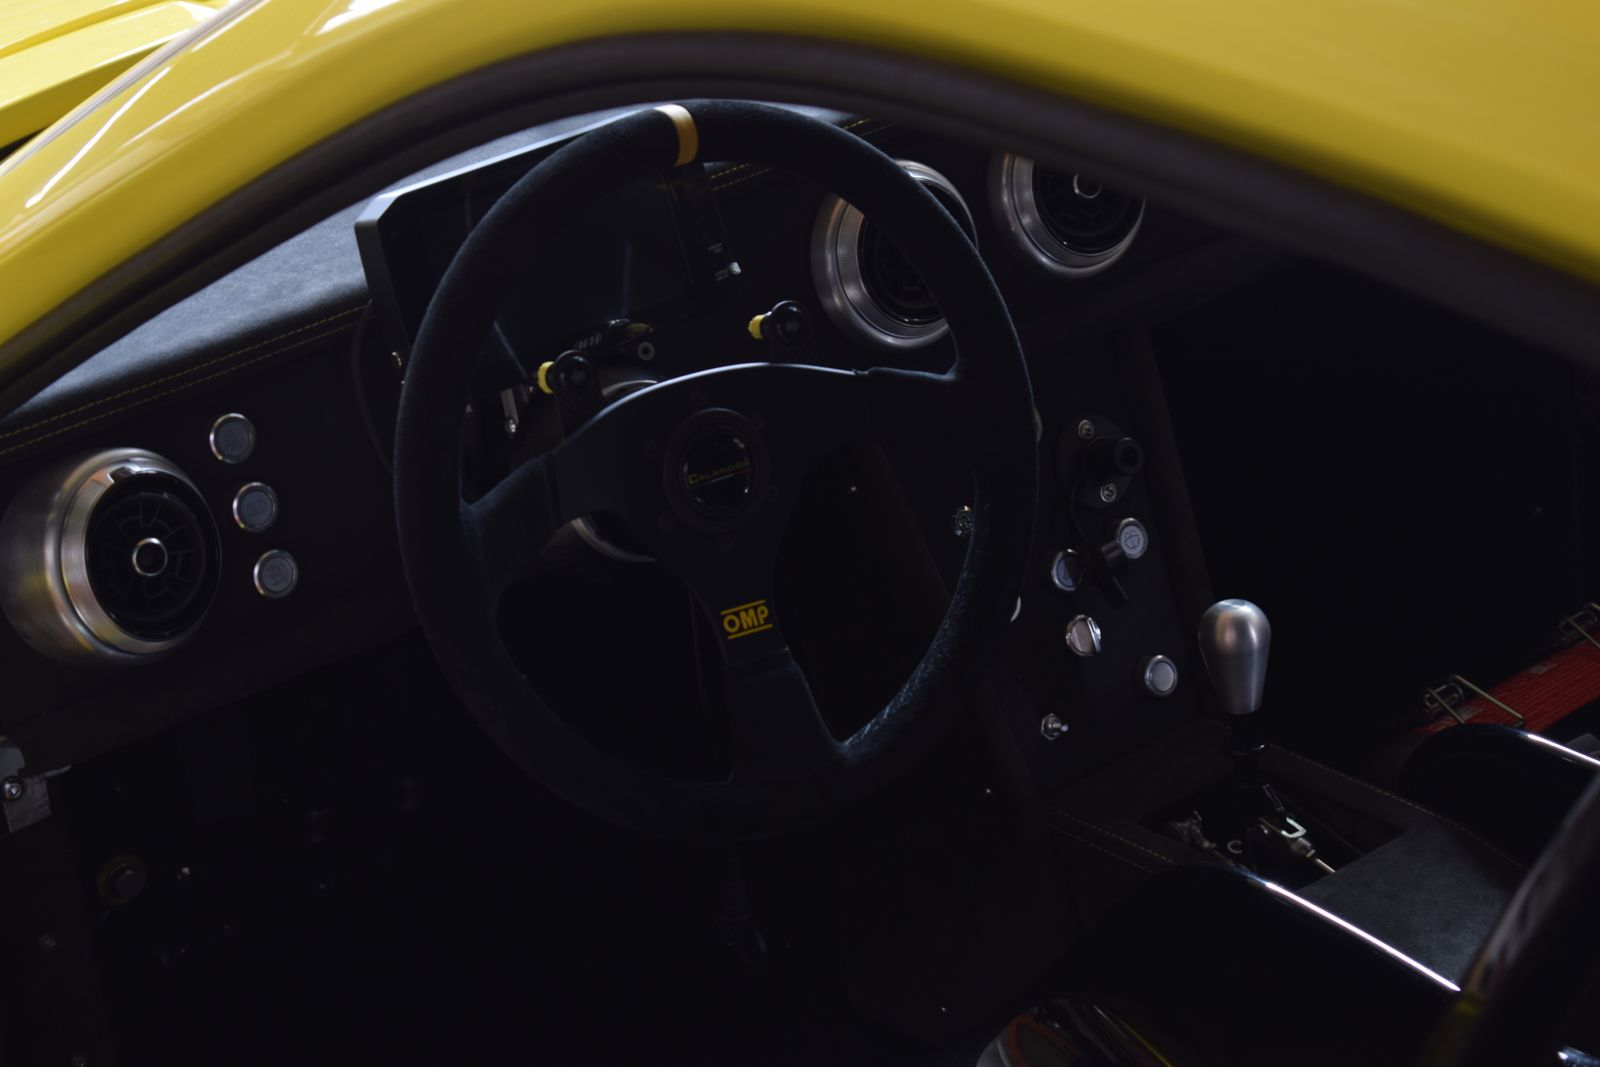
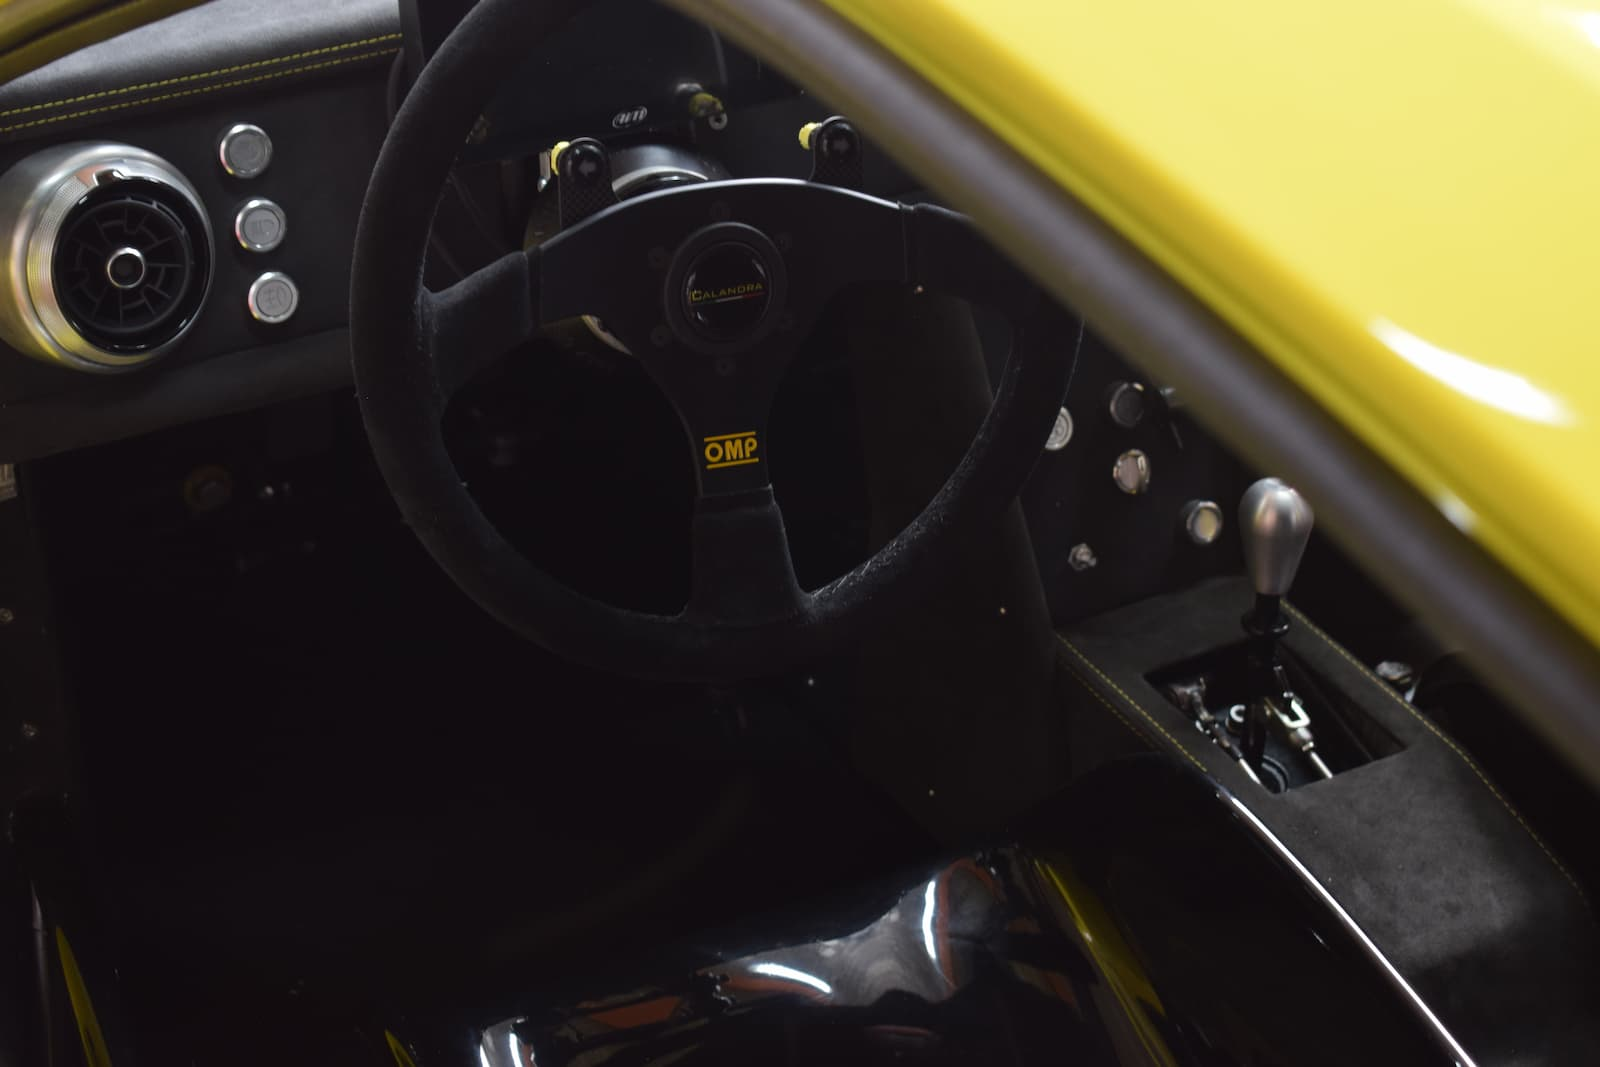
last mod til new photos

diff --git a/src/lib/production.ts b/src/lib/production.ts
@@ -1,32 +1,32 @@
 export const cards = [
   {
     title: "Aerodynamics and Design",
-    desc: "Designed fully in house with the highest detail and refinement lines to be able to achieve the maximum downforce without compromising the styling. Slight changes have been introduced to the GP . This has been done to improve the overall package.",
+    desc: "Designed fully in house with the highest detail and refinement lines to be able to achieve the maximum downforce without compromising the styling. Slight changes have been introduced to the GP version. This has been done to improve the overall package. These modifications have arrived to give the driver the most comfort possible both on road and track.",
     icon: "/svg/wind.svg",
   },
   {
     title: "Suspension, Geometry and Chassis",
-    desc: "Also designed in house. The calculations gone into the chassis and suspension have been meticulously revised and tested with the P001. The chassis is a lightweight space frame configuration, to ensuring a balanced weight distribution front to rear, optimum stiffness and safety.",
+    desc: "Designed fully in house with the highest detail and refinement lines to be able to achieve the maximum downforce without compromising the styling. Slight changes have been introduced to the GP version. This has been done to improve the overall package. These modifications have arrived to give the driver the most comfort possible both on road and track.",
     icon: "/svg/compass.svg",
   },
   {
     title: "Powertrains",
-    desc: "Two engine options V6 3.5L Eco boost offering 500Bhp and 750Bhp. The precision and  engineering  that has gone into the engines, is just remarkable. Hours of machining and calibrating race parts has delivered the reliability needed for the most extreme road and track demands. The cooling system has been carefully studied for minimum heat transfer  fueling system outputting the power necessary to efficiently feed the engine.  Possibility to use a 6-speed manual Dog or Sequential gearbox.",
+    desc: "Designed fully in house with the highest detail and refinement lines to be able to achieve the maximum downforce without compromising the styling. Slight changes have been introduced to the GP version. This has been done to improve the overall package. These modifications have arrived to give the driver the most comfort possible both on road and track.",
     icon: "/svg/gear.svg",
   },
   {
     title: "Brakes and Wheels",
-    desc: "The choice of 4 or 6 piston caliper is available depending on demands. Piston size has been crucial to determinate the best option for either road or track use. With standard monoblock aluminium 19” rims, we also offer a forged version for the demanding drivers.",
+    desc: "Designed fully in house with the highest detail and refinement lines to be able to achieve the maximum downforce without compromising the styling. Slight changes have been introduced to the GP version. This has been done to improve the overall package. These modifications have arrived to give the driver the most comfort possible both on road and track.",
     icon: "/svg/tire.svg",
   },
   {
     title: "Interior",
-    desc: "Simplistic design with high quality finishing. Detail is extraordinary for both road and track versions. All aluminum buttons and knobs are CNC machined. Trimmed cockpit and surroundings in Alcantara. Race seats and a 4-point harness belt, offers firm occupant support giving you that GT race car feeling.",
+    desc: "Simplistic design with high quality finishing. Detail is extraordinary for both road and track versions where we have maintained the simplicity for the driver to only focus on the road. All aluminum buttons and knobs are CNC machined. Trimmed cockpit and surroundings in Alcantara. Race seats and a 4-point harness belt, offers firm occupant support giving you that GT race car feeling.",
     icon: "/svg/glass.svg",
   },
   {
     title: "The Veredict",
-    desc: "The only inspired GT series race car that has evolved into a sports car. ",
+    desc: "The only inspired GT series race car that has evolved into a sports car. After the road and track tests performed till today, the feeling is brutal, but we continue our testing to be able to offer our customers the best handling sports car without electronic management for driver assistance. Our inspiration and philosophy is to continue building true sports car, were the driver and car are united to the road.",
     icon: "/svg/hammer.svg",
   },
 ];

diff --git a/src/lib/email-template.ts b/src/lib/email-template.ts
@@ -147,7 +147,7 @@ export const response = (data: FormData) => /* html */ `
               style="font-size: 20px; line-height: 24px; font-family: 'Helvetica', Arial, sans-serif; font-weight: 600; text-decoration: none; color: #ffffff;">
               Thank you for contacting
               <br />
-                Calandra Automobily,
+                Calandra Automobili,
             </h1>
             <p
               style="font-size: 15px; line-height: 24px; font-family: 'Helvetica', Arial, sans-serif; font-weight: 400; text-decoration: none; color: #999999;">

diff --git a/src/lib/production-images.ts b/src/lib/production-images.ts
@@ -3,4 +3,5 @@ export const images = [
   "/inside/2.jpg",
   "/inside/3.jpg",
   "/inside/4.jpg",
+  "/inside/5.jpg",
 ];
